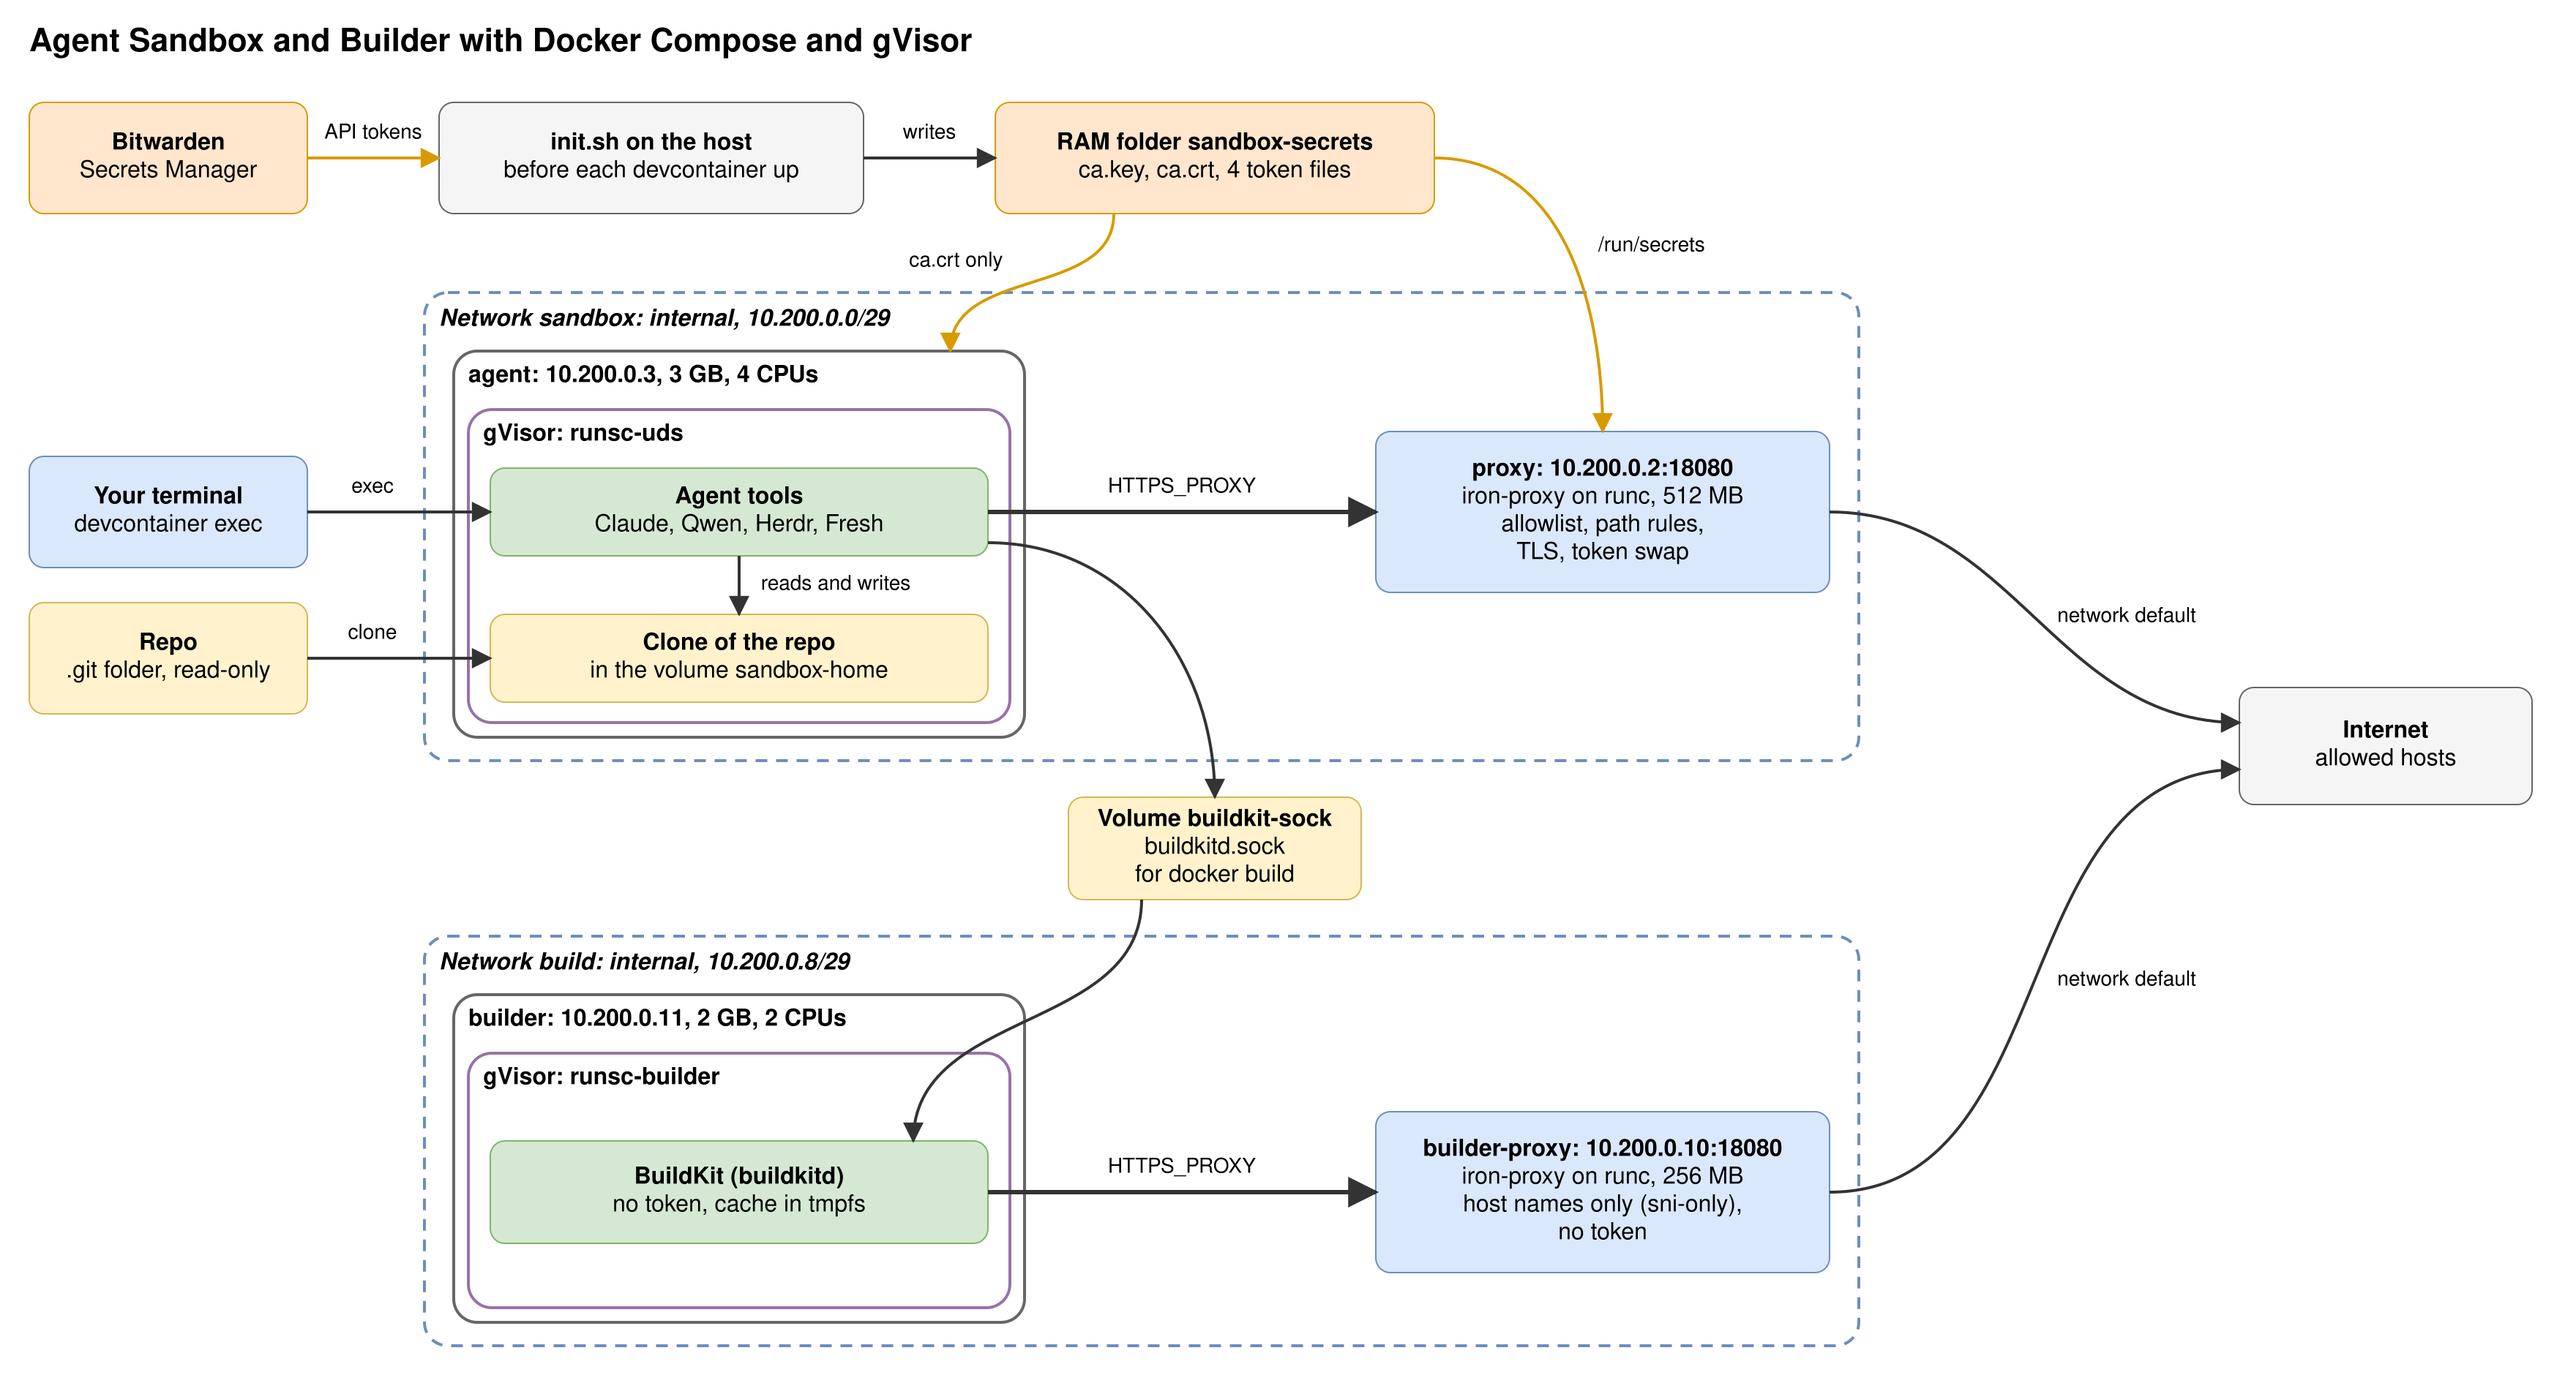
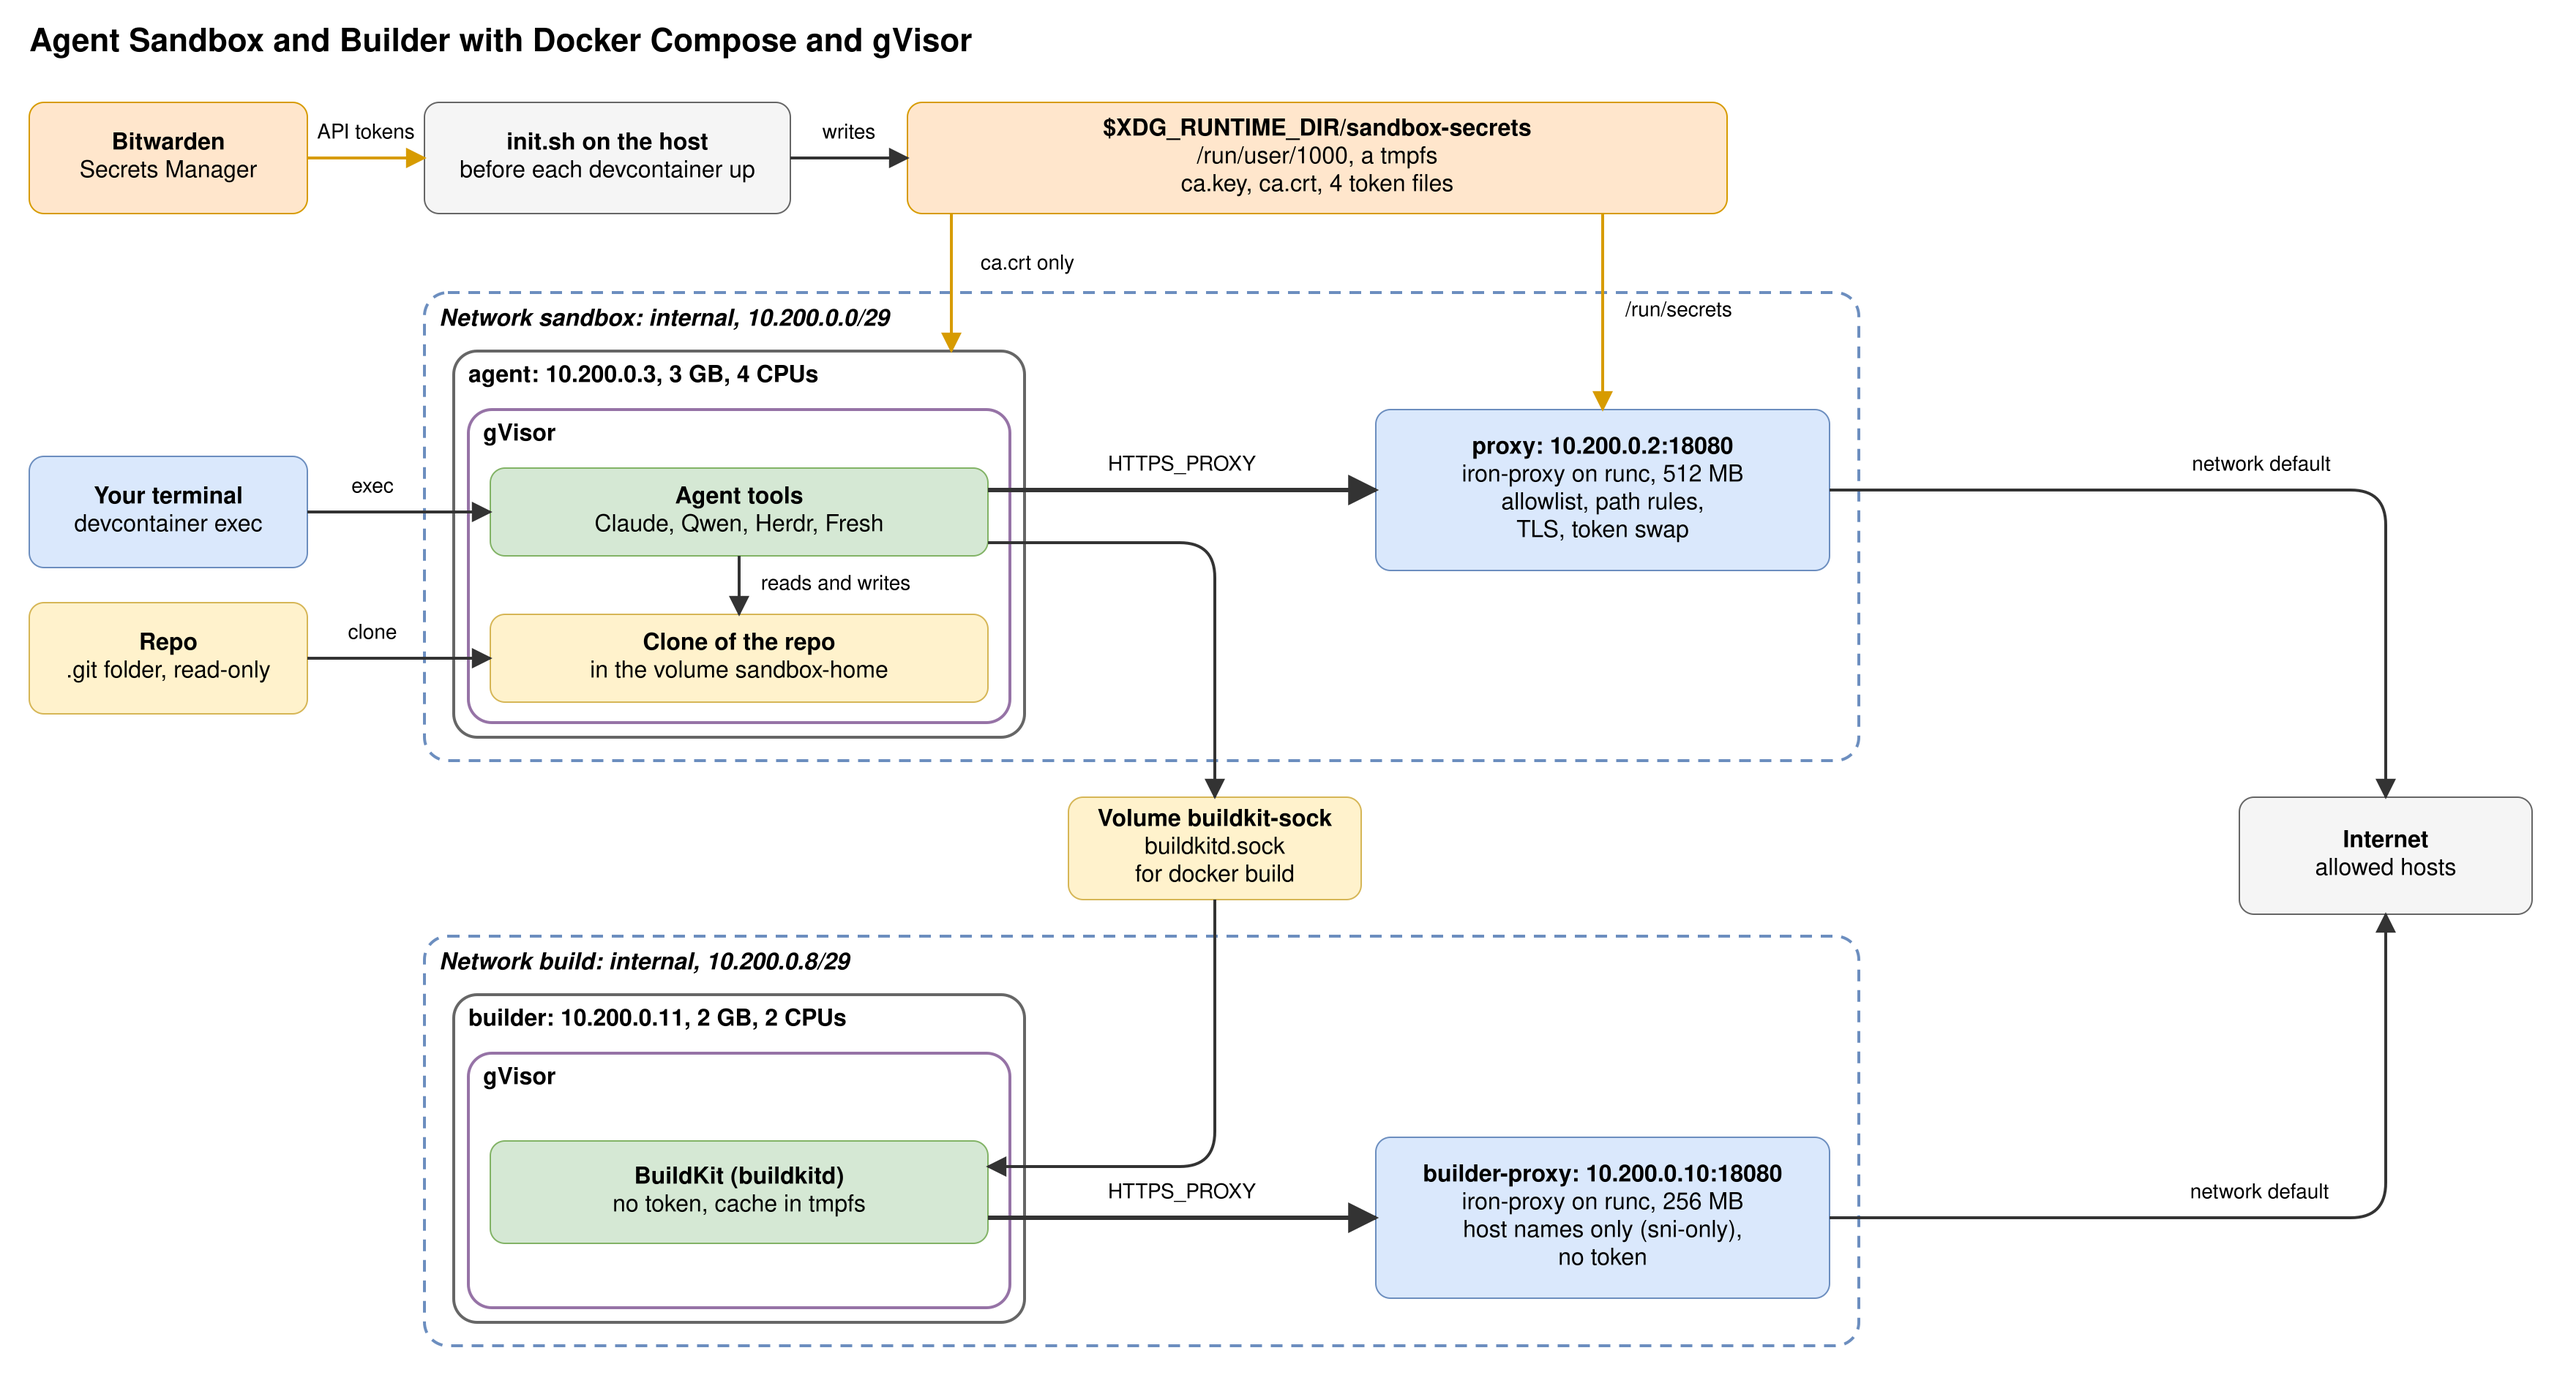
docs: right-angle arrows, the tmpfs path and plain gVisor in the sandbox diagrams
Each arrow is straight or has right-angle bends with rounded corners
(curved=0). The secrets box names $XDG_RUNTIME_DIR/sandbox-secrets, a
tmpfs at /run/user/1000. The gVisor boxes say gVisor, not the runtime
name. Labels on vertical lines cover their line.

diff --git a/.devcontainer/README.md b/.devcontainer/README.md
@@ -49,7 +49,7 @@ This sandbox applies each concept as follows:
 | 1 The wall | A Docker container on gVisor, a user-space kernel. The root file system is read-only. The container has no capabilities. |
 | 2 Workspace | A private clone of the repo. The `.git` folder of your checkout is a read-only mount. |
 | 3 Network gate | An internal Docker network leads only to the agent proxy. The proxy allows listed hosts, methods and paths. |
-| 4 Key holder | The agent proxy swaps a placeholder for the real token. `init.sh` fetches the real tokens from Bitwarden into files in RAM. |
+| 4 Key holder | The agent proxy swaps a placeholder for the real token. `init.sh` fetches the real tokens from Bitwarden into files in `$XDG_RUNTIME_DIR/sandbox-secrets`, a tmpfs. |
 | 5 Saved state | The volume `sandbox-home` keeps the clone, the logins and the histories. Herdr restores the panes. |
 | 6 You | You approve tool calls in Claude Code and follow the panes in Herdr and the audit log. `docker compose -p sandbox stop` stops the sandbox. Each task has its own worktree and branch. |
 
@@ -92,7 +92,7 @@ A file outside `agent/` runs on your host or goes into a proxy as a mount. A fil
 ```text
 .devcontainer/
 ├── devcontainer.json    # run config: compose.yaml, the agent service, init.sh first
-├── init.sh              # host: a new CA and the API tokens in RAM, for a new proxy
+├── init.sh              # host: a new CA and the API tokens in a tmpfs, for a new proxy
 ├── compose.yaml         # the four containers, the networks, the limits and the mounts
 ├── policy/
 │   ├── agent.yaml       # agent proxy: allowlist, path rules, token swap
@@ -123,7 +123,7 @@ Notes on the controls:
 - **Root in the builder.** BuildKit has no authorization. Any holder of `buildkitd.sock` can run any build step as root in the build. The container is the wall.
 - **Path rules.** The path is the part of a URL after the host name. For `https://github.com/raghav19/engineersdaybook`, the path is `/raghav19/engineersdaybook`. A merge, a file removal, a gist, a fork and GraphQL get `403`.
 - **TLS.** `init.sh` makes a new CA for each new agent proxy. The agent proxy reads each request with this CA, and the agent trusts only this CA. The builder proxy has no CA.
-- **Tokens.** `init.sh` writes each API token into a file in `$XDG_RUNTIME_DIR/sandbox-secrets`. This folder is in RAM and has mode 0700. An ACL lets the proxy uid 10001 read the files. Your host user can read them while the session runs. A logout or a reboot empties the folder.
+- **Tokens.** `init.sh` writes each API token into a file in `$XDG_RUNTIME_DIR/sandbox-secrets`. `$XDG_RUNTIME_DIR` is `/run/user/<uid>`, a tmpfs, so the files stay in RAM. The folder has mode 0700. An ACL lets the proxy uid 10001 read the files. Your host user can read them while the session runs. A logout or a reboot empties the folder.
 - **Audit log.** Read it with `docker logs -f sandbox-proxy-1`.
 - **Limits.** `compose.yaml` sets the memory, CPU and PID limits of each container. Rootful Docker enforces them under gVisor. `memswap_limit` is equal to `mem_limit`, so no container uses swap.
 - **Session.** The volume `sandbox-home` keeps the clone, the logins and the histories of the agent sandbox.
@@ -150,7 +150,7 @@ sequenceDiagram
     alt the agent proxy runs
         Init-->>CLI: exit, the proxy has its CA and tokens
     else no agent proxy runs
-        Init->>Init: make the RAM folder and a new CA
+        Init->>Init: make the secrets folder and a new CA
         Init->>BW: bws secret list, with the decrypted access token
         BW-->>Init: the API tokens
         Init->>Init: write one file for each token
@@ -325,7 +325,7 @@ Do these steps once, in your main checkout. If step 3 or 4 is missing, `devconta
 1. **Docker.** Install Docker Engine with the Compose and buildx plugins: [Install Docker Engine](https://docs.docker.com/engine/install/). Then do [the post-install steps for Linux](https://docs.docker.com/engine/install/linux-postinstall/). The `docker` group is equal to root on the host.
 
 2. **mise and the tools.** Install mise: [Getting started](https://mise.jdx.dev/getting-started.html). Then run `mise install` in the repo. The root `mise.toml` installs `jq`, `bws`, the devcontainer CLI and gVisor at a pinned version with a checksum. `init.sh` uses `bws` to fetch the API tokens.
-   `init.sh` also needs `setfacl` and `openssl`. On Arch, they are in the packages `acl` and `openssl`. `init.sh` makes a new proxy CA in RAM for each new proxy.
+   `init.sh` also needs `setfacl` and `openssl`. On Arch, they are in the packages `acl` and `openssl`. `init.sh` makes a new proxy CA in `$XDG_RUNTIME_DIR/sandbox-secrets` for each new proxy.
 
 3. **gVisor.** Copy runsc to a folder that only root can write, because Docker runs it as root. Then add the two runtimes and restart Docker.
 

diff --git a/.devcontainer/docs/diagrams/README.md b/.devcontainer/docs/diagrams/README.md
@@ -2,10 +2,10 @@
 
 | File | Use |
 |---|---|
-| `architecture.drawio` | Source of the architecture diagram. Shows the host, the two internal Docker networks and the Internet. On the host: Bitwarden, `init.sh`, the RAM folder `sandbox-secrets`, your terminal and the repo. The network `sandbox` holds the agent container and the agent proxy. The network `build` holds the builder container and the builder proxy. Each gVisor container is two nested boxes: the Docker container with its IP and limits, then gVisor with its runtime. The volume `buildkit-sock` sits between the two networks. It is the only link between the agent and the builder. Each proxy reaches the Internet on the Compose network `default`. |
+| `architecture.drawio` | Source of the architecture diagram. Shows the host, the two internal Docker networks and the Internet. On the host: Bitwarden, `init.sh`, the tmpfs folder `$XDG_RUNTIME_DIR/sandbox-secrets`, your terminal and the repo. Both arrows from that folder go straight down. The network `sandbox` holds the agent container and the agent proxy. The network `build` holds the builder container and the builder proxy. Each gVisor container is two nested boxes: the Docker container with its IP and limits, then gVisor. The volume `buildkit-sock` sits between the two networks. It is the only link between the agent and the builder. Each proxy reaches the Internet on the Compose network `default`. |
 | `architecture.svg` | The diagram as a plain SVG with real `<text>` elements and a white background. Drawn from the coordinates of the `.drawio` file. |
 | `architecture.png` | The PNG of the SVG, 2x with a white background. |
-| `security-controls.drawio` | Source of the security controls diagram. Two lanes mirror each other around a `Host kernel` box: the agent sandbox above it and the builder below it. Each lane goes from the sandbox through its internal network to a proxy container and the Internet. A legend at the bottom names the colors. The diagram is the list of controls in the section "Security controls" of `../../README.md`. When you edit it, keep the lanes mirrored in size, position and layout. Keep each title 10 px from the left edge and 8 px from the outer edge. Keep each arrow label 8 px from its line and each arrow 2 px thick. |
+| `security-controls.drawio` | Source of the security controls diagram. Two lanes mirror each other around a `Host kernel` box: the agent sandbox above it and the builder below it. Each lane goes from the sandbox through its internal network to a proxy container and the Internet. A legend at the bottom names the colors. Each arrow is straight or has right-angle bends with rounded corners (`curved=0`). The diagram is the list of controls in the section "Security controls" of `../../README.md`. When you edit it, keep the lanes mirrored in size, position and layout. Keep each title 10 px from the left edge and 8 px from the outer edge. Keep each arrow label 8 px from its line and each arrow 2 px thick. |
 | `security-controls.svg` | The security controls diagram as a plain SVG, drawn in the same way. |
 | `security-controls.png` | The PNG of that SVG, 2x with a white background. |
 | `concepts.drawio` | Source of the concepts diagram, titled "How to design an agent sandbox". It shows the six numbered concepts of the design pattern: 1 the wall, 2 the workspace, 3 the network gate, 4 the key holder, 5 the saved state and 6 you. Keep each label generic, so the diagram applies to any agent sandbox. The names of this sandbox go in the table under the diagram in `../../README.md`. A grey box is the host computer. In it, a thick blue box is the wall: a user-space kernel or a microVM. The wall holds the agent, the software, the workspace and the saved state in a 2x2 grid. The network gate and the key holder are on the host, outside the wall. Each arrow is a straight line between the centers of two box sides. |
